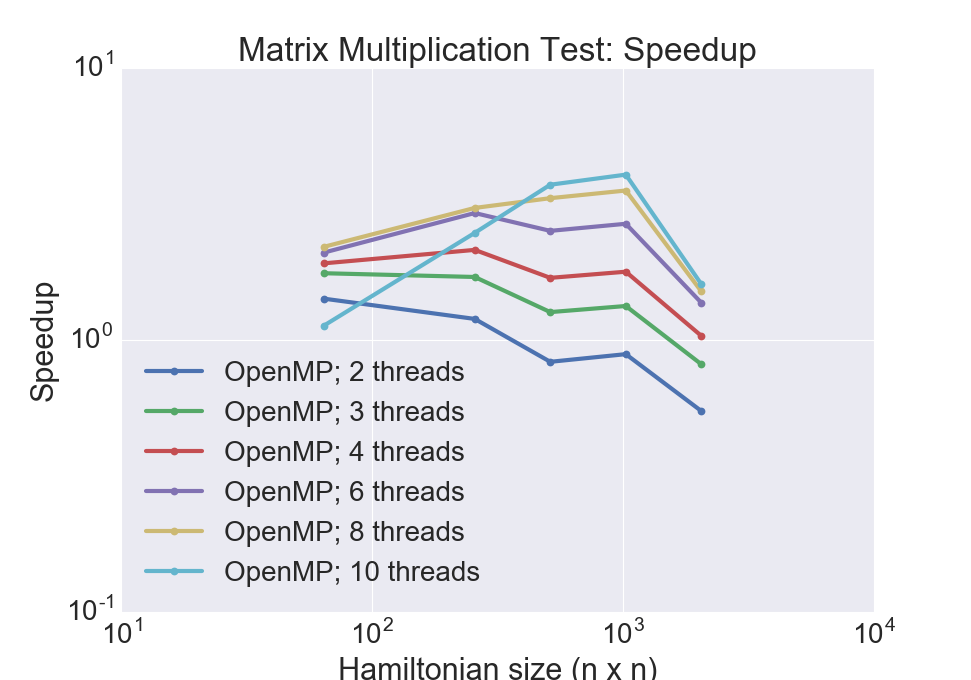
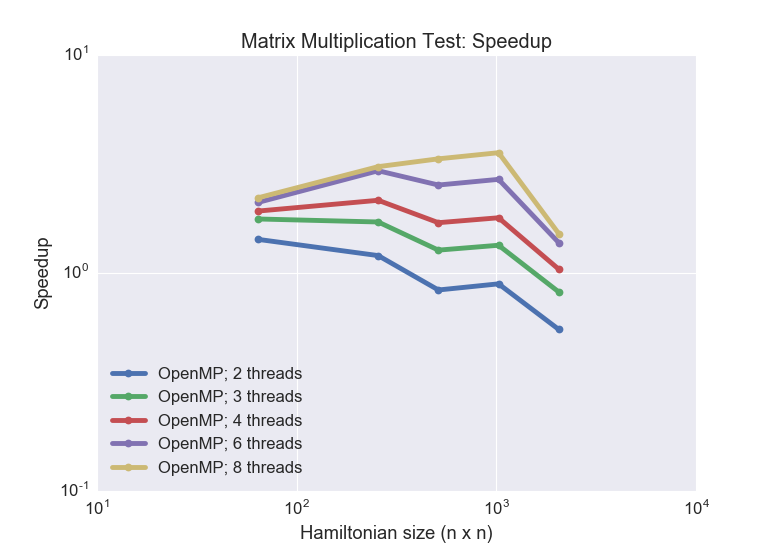
Cleaned OpenMP figures

diff --git a/README.md b/README.md
@@ -245,12 +245,6 @@ Using OpenMP, we "collapsed" or unrolled the two outer loops and tested differen
 
 
 <center>
-<img src="Graphics/runtimes_openmp.png" width="400">
-</center> 
-
-**Figure:** Runtimes [seconds] of matrix-matrix multiplication using multithreading via OpenMP. Generally, adding more threads led to faster runtimes.
-
-<center>
 <img src="Graphics/speedup_openmp.png" width="400">
 </center>
 
